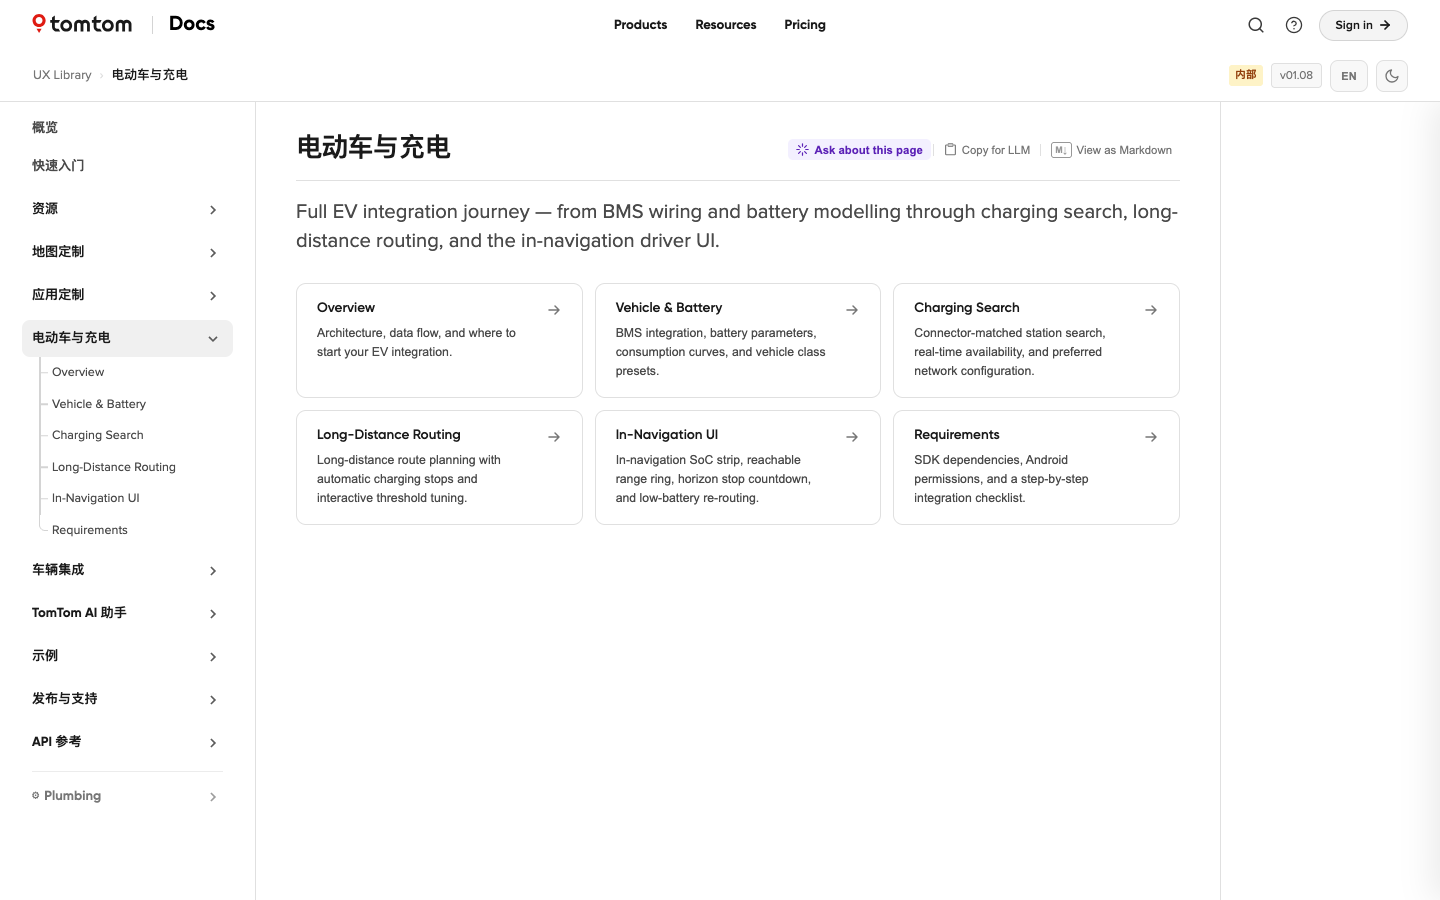
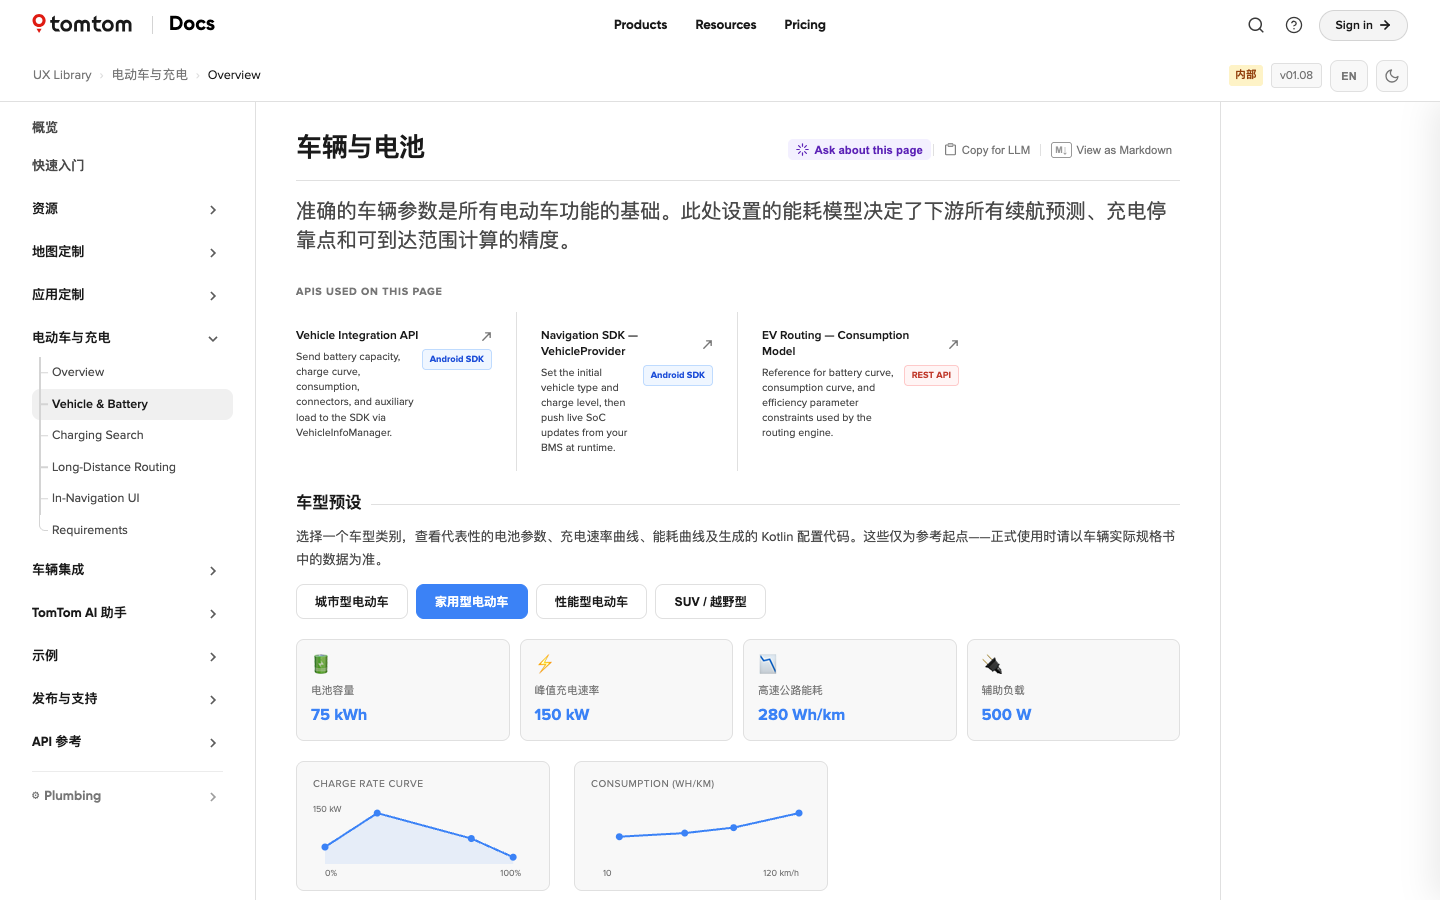
Reorder README: Ask AI first, Chinese second; replace Chinese screenshot
- Move Ask AI section above Chinese localisation
- Replace 21b with Vehicle & Battery page (车辆与电池) — fully translated: page title, intro, vehicle type tabs, stat labels, body copy, sidenav all in Chinese

diff --git a/README.md b/README.md
@@ -25,18 +25,6 @@ Six integration domains:
 
 ---
 
-## Chinese localisation (中文)
-
-All core pages are available in Simplified Chinese. Toggle between EN and 中文 using the language switcher in the top-right corner — the full navigation, page titles, body content, and UI labels switch instantly.
-
-![Chinese overview](docs/screenshots/21-chinese-overview.png)
-
-![Chinese EV & Charging](docs/screenshots/21b-chinese-ev.png)
-
-Translations live in `src/locales/zh/` and are wired through `react-i18next`. Adding a new language requires only a matching locale folder — no component changes needed.
-
----
-
 ## Ask AI integration
 
 Every page surfaces an **Ask about this page** button that opens a contextual AI chat panel from the right. The panel seeds itself from the current page's content so responses are immediately relevant.
@@ -58,6 +46,18 @@ const response = await fetch('/api/ask', {
   }),
 });
 ```
+
+---
+
+## Chinese localisation (中文)
+
+All core pages are available in Simplified Chinese. Toggle between EN and 中文 using the language switcher in the top-right corner — the full navigation, page titles, body content, and UI labels switch instantly.
+
+![Chinese overview](docs/screenshots/21-chinese-overview.png)
+
+![Chinese Vehicle & Battery — 车辆与电池](docs/screenshots/21b-chinese-ev.png)
+
+Translations live in `src/locales/zh/` and are wired through `react-i18next`. Adding a new language requires only a matching locale folder — no component changes needed.
 
 ---
 